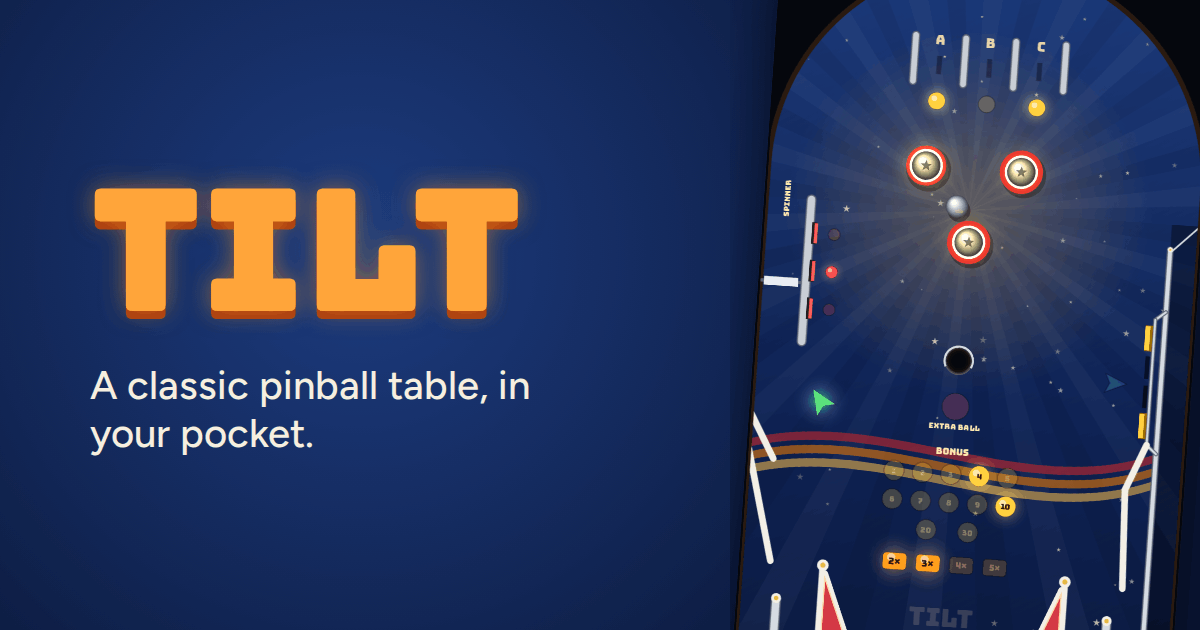
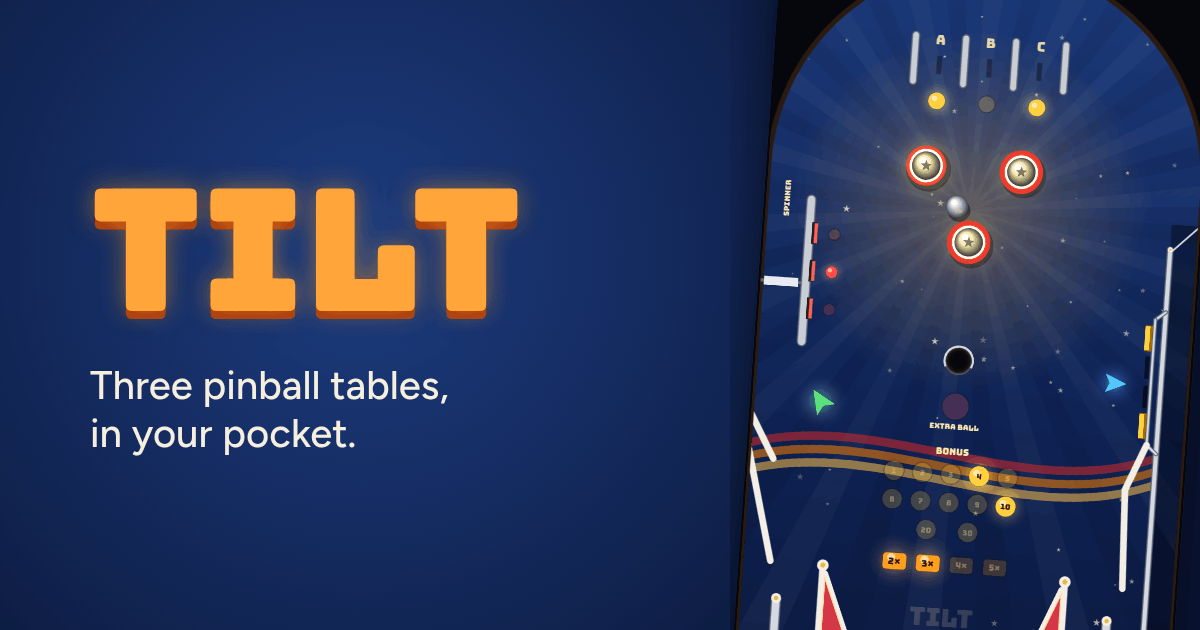
Say there are three tables in the link preview
A link to Tilt still said "A classic pinball table, in your pocket." in
the preview's line and on its picture, from before Space and Haunted House
were added; the title card, the manifest and package.json already said
"Three pinball tables, in your pocket." The preview's line and og.png now
say that too, with the line on the picture broken after "tables," rather
than leaving "pocket." on its own. The README screenshots are unchanged.

Claude-Session: https://claude.ai/code/session_01N3tHmrVtD9q2Zcak1ErX34

diff --git a/index.html b/index.html
@@ -6,7 +6,7 @@
   <title>Tilt</title>
   <meta name="description" content="Three pinball machines you can play on your phone: Classic, with the drop targets and spinner of an early-80s table; Space, with the ramp, lock and two-ball multiball of an early-90s one; and Haunted House, the hard one, with ghosts and a trapdoor down to a basement playfield.">
   <meta property="og:title" content="Tilt">
-  <meta property="og:description" content="A classic pinball table, in your pocket.">
+  <meta property="og:description" content="Three pinball tables, in your pocket.">
   <meta property="og:image" content="https://tilt.junkdrawer.works/og.png">
   <meta property="og:url" content="https://tilt.junkdrawer.works/">
   <meta name="twitter:card" content="summary_large_image">
